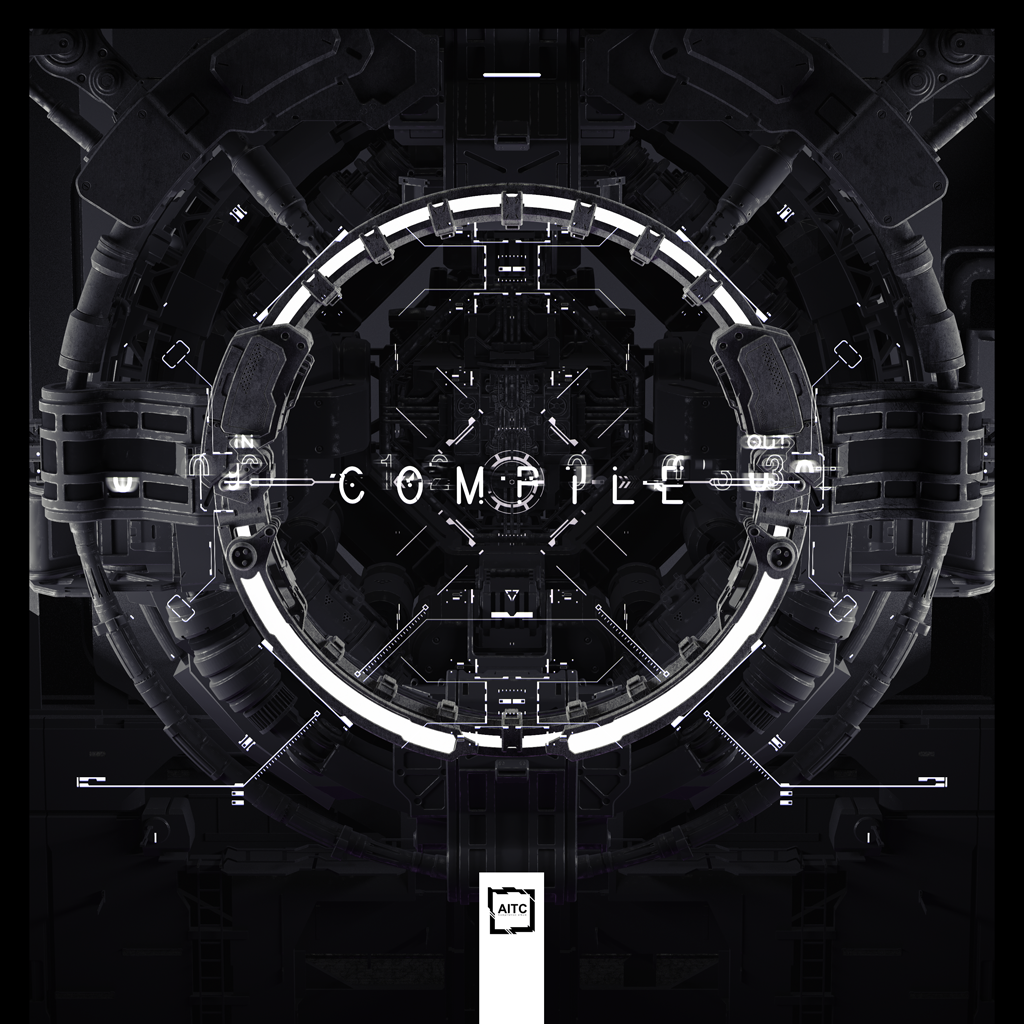
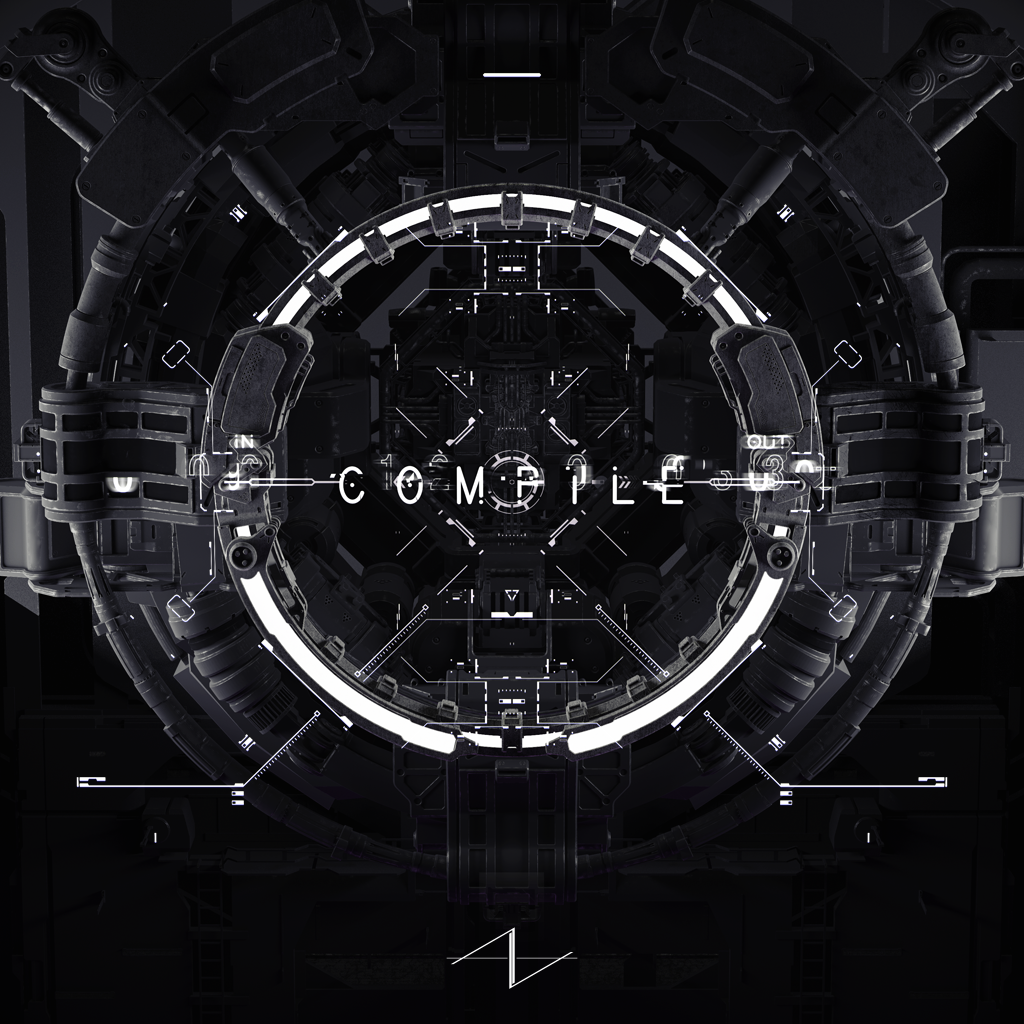
static change

diff --git a/src/components/Header.tsx b/src/components/Header.tsx
@@ -7,7 +7,7 @@ export default () => (
     <title>COMPILE | AITC</title>
     <meta name="viewport" content="width=device-width, initial-scale=1.0, minimum-scale=1.0" />
     <meta name="keywords" content="AITC,COMPILE,M3" />
-    <meta name="description" content="2020-03-10 第一展示場 I-21a 2020-春M3" />
+    <meta name="description" content="2020-03-01 第一展示場 I-21a 2020-春M3" />
     <link rel="canonical" href="https://url" />
     <meta property="og:locale" content="ja_JP" />
     <meta property="og:type" content="website" />

diff --git a/src/components/Section/Front.scss b/src/components/Section/Front.scss
@@ -23,8 +23,8 @@ section#front {
   position: absolute;
   display: block;
   overflow: hidden;
-  width: 100vw;
-  height: 100vh;
+  width: 100%;
+  height: 100%;
   margin: auto;
   top: 0;
   right: 0;
